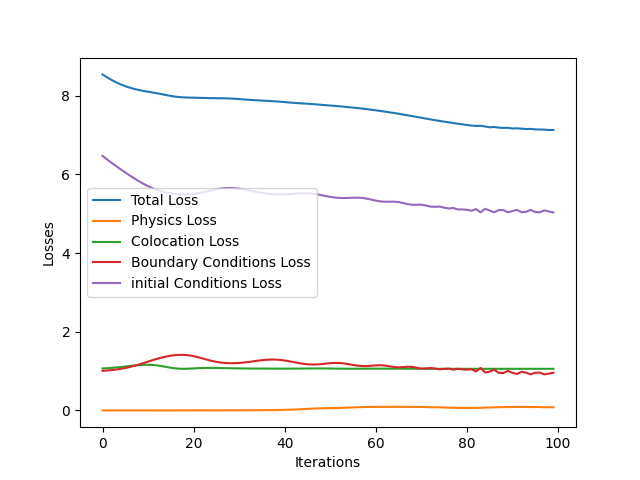
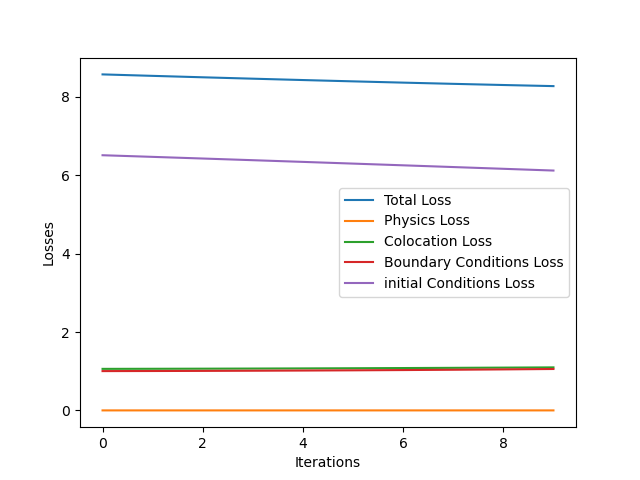
normalistion temps collocation point

diff --git a/PINNs/pinn_goy.py b/PINNs/pinn_goy.py
@@ -229,7 +229,7 @@ def filter_mode(X,mode_min:int,mode_max:int,t_min:int,ratio:float,seed):
             if (np.random.random()<=ratio):
                 X_filtered[i,j] = X_subset[i,j]
                 X_posx.append(j)
-                X_posy.append(i)
+                X_posy.append(i/nb_line)
                 X_value.append((X_subset[i,j]-mean_mode[j])/std_mode[j]) # centré réduit
 
             else:
@@ -412,7 +412,7 @@ command = torch.cuda.is_available()
 print(f'cuda is available : {command}')
 
 ######### The data generated by the shell model #######
-PATH =r"C:\Users\sebc3\Desktop\stage\GOY-main\\" # r"/home/s26calme/Documents/code_stage/Donnees/GOY_modele/Parametre_Ewen/"
+PATH =r"/home/s26calme/Documents/code_stage/GOY-main/" # r"/home/s26calme/Documents/code_stage/Donnees/GOY_modele/Parametre_Ewen/"
 path_data = PATH + "data.dat"
 
 data =  np.loadtxt(path_data,dtype=np.float32) # charge le jeu de données
@@ -473,7 +473,7 @@ K = [k0*lmb**i for i in range(k_min,k_max)]
 torch.manual_seed(119)
 device = torch.device('cuda' if torch.cuda.is_available() else 'cpu')
 
-model = GOY_PINN(n_input=2,n_output=1,n_hidden=32,n_layers=8)
+model = GOY_PINN(n_input=2,n_output=1,n_hidden=20,n_layers=8)
 model.to(device)
 
 
@@ -525,7 +525,7 @@ Dataloader_grid = DataLoader(grid_dataset,batch_sampler=sampler_grid)
 
 
 
-learning_rate,nbr_iteration,w_1,w_2,w3,w_4 = 0.001,100,1,1,1,1
+learning_rate,nbr_iteration,w_1,w_2,w3,w_4 = 0.001,10,1,1,1,1
 t = Train_PINN(learning_rate,nbr_iteration,w_1,w_2,w3,w_4)
 Total_loss = t.train()
 model.eval().to(device)
